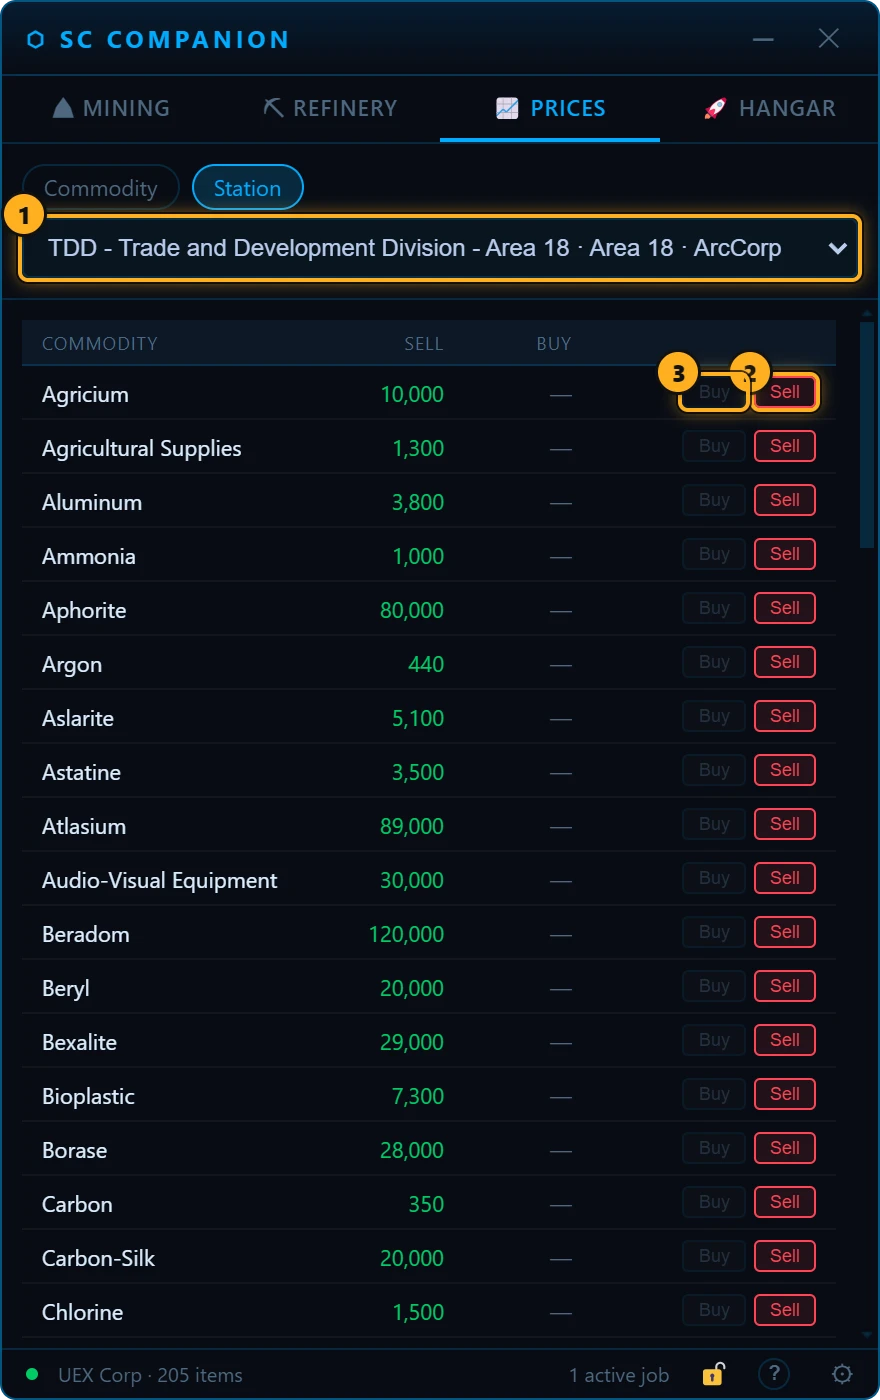
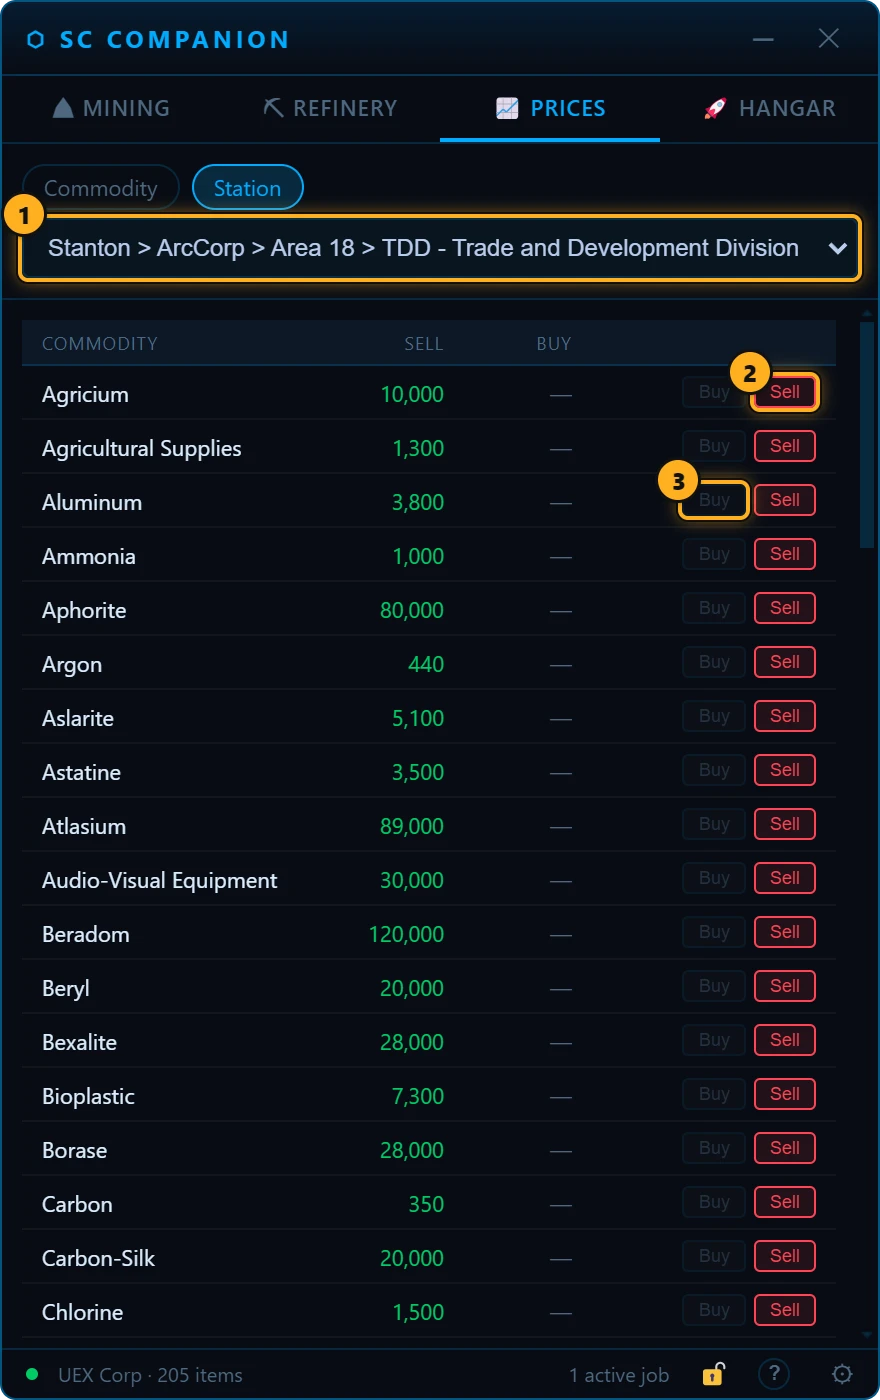
v1.4.9 — System-first station names, remembered locations, bug-report ping
Prices
- Station names are shown system-first ("Stanton > MicroTech > Calliope > ...")
  in the station list, best buy/sell lines and terminal popup, using one shared
  helper. Pyro and Nyx stations are now in the station list (116 total).

Add dialogs
- Add Inventory, Add Asset, Add Ship and Add Job remember the last location
  used and open on it; kept across restarts. Editing, the Buy flow, game-log
  jobs and refinery capture still use their own location.

Bug reports
- Reports now @mention a role so they are noticed; mentions are restricted so
  report text cannot ping anyone.

Changed region(s): [[0.0614, 0.1536, 0.9205, 0.1843], [0.7364, 0.2457, 0.8591, 0.3993]]

diff --git a/renderer/index.html b/renderer/index.html
@@ -2316,6 +2316,7 @@ function openAddJob() {
   debugEl.style.display = 'none';
   debugEl.textContent = '';
   resetOreRows();
+  document.getElementById('job-location').value = lastLocations.job || '';
   document.getElementById('modal-overlay').classList.add('show');
   setTimeout(() => document.querySelector('#ore-rows .ore-input')?.focus(), 50);
 }
@@ -2376,6 +2377,7 @@ function addJob() {
         durationSeconds: dur };
     }
   } else {
+    rememberLocation('job', location);
     jobs.push({ id: Date.now().toString(), ores, qualities, yields, method: method || 'Custom', location, startTime: Date.now(), durationSeconds: dur, notes });
   }
 
@@ -2562,9 +2564,32 @@ async function prefetchInventoryPrices() {
   }
 }
 
+// Where a terminal is, system first — the same path style SC Trade Tools uses, so
+// stations with the same name in different systems (the gateways) are easy to tell
+// apart: ["Stanton", "MicroTech", "Calliope", "Shubin Mining Facility SMCa-8"].
+// Works on both terminal records and commodity-price rows (they share these fields).
+function placeParts(t) {
+  const place = t.city_name || t.outpost_name || t.space_station_name || t.poi_name || '';
+  const parts = [t.star_system_name, t.planet_name, t.moon_name, place].filter(Boolean);
+  return parts.filter((p, i) => i === 0 || p.toLowerCase() !== parts[i - 1].toLowerCase());
+}
+
+// The path plus the terminal itself, without repeating the place when the terminal's
+// name already ends in it ("Rust - Dunboro" at Dunboro → "… > Dunboro > Rust").
+function terminalPath(t) {
+  const parts = placeParts(t);
+  const place = parts.length > 1 ? parts[parts.length - 1] : '';
+  let name = t.terminal_name || t.name || '';
+  if (place) {
+    const lower = name.toLowerCase(), pl = place.toLowerCase();
+    if (lower === pl) name = '';
+    else if (lower.endsWith(' - ' + pl)) name = name.slice(0, name.length - pl.length - 3);
+  }
+  return [...parts, name].filter(Boolean).join(' > ');
+}
+
 function rowLocation(p) {
-  const place = [p.city_name || p.outpost_name || p.poi_name, p.moon_name, p.planet_name].filter(Boolean).join(' · ');
-  return p.terminal_name + (place ? ` · ${place}` : '');
+  return terminalPath(p);
 }
 
 const terminalIndex = {};
@@ -2668,9 +2693,8 @@ async function renderStations() {
       const res = await api.getTerminals();
       if (res.status === 'ok') {
         (res.data || []).filter(t => t.is_available && t.type === 'commodity').forEach(t => {
-          const loc = [t.city_name || t.outpost_name, t.moon_name, t.planet_name]
-            .filter(Boolean).join(' · ') || t.space_station_name || t.star_system_name || '';
-          terminalIndex[t.id] = { id_terminal: t.id, terminal_name: t.name, loc };
+          const row = { ...t, terminal_name: t.name };
+          terminalIndex[t.id] = { id_terminal: t.id, terminal_name: t.name, loc: placeParts(row).join(' > '), path: terminalPath(row) };
         });
         terminalsLoaded = true;
       }
@@ -2678,7 +2702,7 @@ async function renderStations() {
   }
 
   const terminals = Object.values(terminalIndex)
-    .sort((a, b) => a.terminal_name.localeCompare(b.terminal_name));
+    .sort((a, b) => a.path.localeCompare(b.path));
 
   if (!terminals.length) {
     sel.innerHTML = '<option value="">Select a station…</option>';
@@ -2692,7 +2716,7 @@ async function renderStations() {
   const prev = sel.value;
   sel.innerHTML = '<option value="">Select a station…</option>' +
     terminals.map(t =>
-      `<option value="${esc(String(t.id_terminal))}"${String(t.id_terminal) === prev ? ' selected' : ''}>${esc(t.terminal_name)}${t.loc ? ` · ${esc(t.loc)}` : ''}</option>`
+      `<option value="${esc(String(t.id_terminal))}"${String(t.id_terminal) === prev ? ' selected' : ''}>${esc(t.path)}</option>`
     ).join('');
 
   if (prev && sel.value === prev) {
@@ -2985,9 +3009,7 @@ async function selectCom(com, el) {
       if (topBuy) {
         _topBuyPrice = topBuy.price_buy;
         _topBuyAt = rowLocation(topBuy);
-        const loc = [topBuy.city_name || topBuy.outpost_name || topBuy.poi_name, topBuy.planet_name]
-          .filter(Boolean).join(' · ');
-        bestBuyLoc.textContent   = topBuy.terminal_name + (loc ? ` · ${loc}` : '');
+        bestBuyLoc.textContent   = terminalPath(topBuy);
         bestBuyPrice.textContent = topBuy.price_buy.toLocaleString() + ' aUEC';
         bestBuyEl.style.display  = 'flex';
       }
@@ -3018,18 +3040,18 @@ async function selectCom(com, el) {
 
     plist.innerHTML = prices.map((p, i) => {
       const medal = i === 0 ? '🥇' : i === 1 ? '🥈' : i === 2 ? '🥉' : `${i+1}.`;
-      const loc = [p.city_name || p.outpost_name || p.poi_name, p.moon_name, p.planet_name].filter(Boolean).join(' · ');
+      const loc = placeParts(p).join(' > ');
       const rowData = encodeURIComponent(JSON.stringify({
         terminal_name: p.terminal_name,
         id_terminal: p.id_terminal,
-        loc: loc || p.star_system_name || '',
+        loc,
       }));
       return `
         <div class="price-row" style="cursor:pointer" onclick="showTerminalPrices('${rowData}')">
           <span class="price-rank">${medal}</span>
           <div class="price-location">
             <div class="price-terminal">${esc(p.terminal_name)}</div>
-            <div class="price-place">${esc(loc || p.star_system_name || '')}</div>
+            <div class="price-place">${esc(loc)}</div>
           </div>
           <div style="text-align:right">
             <div class="price-value">${p.price_sell.toLocaleString()}</div>
@@ -3333,7 +3355,7 @@ async function captureRefineryJob() {
     document.getElementById('job-s').value = res.duration.s || '';
   }
   const matchedLoc = matchJobLocation(res.location);
-  if (matchedLoc) document.getElementById('job-location').value = matchedLoc;
+  document.getElementById('job-location').value = matchedLoc || '';
 
   const foundAnything = materials.length || res.method || res.duration || matchedLoc;
   document.getElementById('modal-title').textContent = foundAnything
@@ -4018,6 +4040,7 @@ initShortcut();
 initLogWatcher();
 initCloseBehavior();
 initPriceSource();
+loadLastLocations();
 initTransitIcon();
 initRefineryCaptureMode();
 initHoverHints();
@@ -4638,7 +4661,7 @@ async function setShipSlot(slotIdx, assetUid) {
 async function openAddShip() {
   pickedVehicle = null;
   ['ship-pick-search', 'ship-nick-input', 'ship-notes-input'].forEach(id => { document.getElementById(id).value = ''; });
-  fillLocationSelect('ship-location-select', 'ship-location-custom');
+  fillLocationSelect('ship-location-select', 'ship-location-custom', lastLocations.ship || '');
   document.getElementById('ship-pick-selected').textContent = '';
   document.getElementById('add-ship-modal').style.display = 'flex';
   const listEl = document.getElementById('ship-pick-list');
@@ -4685,6 +4708,7 @@ async function saveShip() {
   }
   const v = pickedVehicle;
   const shipLocation = await readLocationPick('ship-location-select', 'ship-location-custom');
+  rememberLocation('ship', shipLocation);
   const newShip = {
     uid: newUid(),
     vid: v.id,
@@ -4829,6 +4853,21 @@ function onAssetTypeChange() {
   if (!isPart) document.getElementById('asset-size-input').value = '';
 }
 
+// The last place used in each "add" dialog, so adding a run of items to the same
+// spot is one pick instead of many. Remembered per dialog (inventory / asset / ship /
+// job) and kept across restarts. Only *adding* remembers or pre-fills — editing shows
+// the item's own location — and "In Transit" is never remembered.
+let lastLocations = {};
+async function loadLastLocations() {
+  try { lastLocations = (await api.getStore('lastLocations')) || {}; } catch { lastLocations = {}; }
+}
+function rememberLocation(kind, value) {
+  const v = String(value || '').trim();
+  if (v === 'In Transit' || (lastLocations[kind] || '') === v) return;
+  lastLocations[kind] = v;
+  api.setStore('lastLocations', lastLocations);
+}
+
 // One location picker for every "where is it" field (assets, ships): the same
 // station list as Inventory, any custom places already used anywhere, and a
 // Custom… option that's remembered for next time.
@@ -4887,7 +4926,7 @@ async function openAssetDialog(asset) {
   onAssetTypeChange();
   if (asset && asset.size != null) document.getElementById('asset-size-input').value = String(asset.size);
 
-  await fillLocationSelect('asset-location-select', 'asset-location-custom', asset ? (asset.location || '') : '');
+  await fillLocationSelect('asset-location-select', 'asset-location-custom', asset ? (asset.location || '') : (lastLocations.asset || ''));
 }
 
 function openAddAsset() { return openAssetDialog(); }
@@ -4909,6 +4948,7 @@ async function saveAsset() {
   };
   const assetSize = document.getElementById('asset-size-input').value;
   const existing = editingAssetUid ? assetByUid(editingAssetUid) : null;
+  if (!existing) rememberLocation('asset', location);
   if (existing) {
     // Editing keeps everything the dialog doesn't show (crafted parts, stock info, uid).
     Object.assign(existing, fields);
@@ -6734,10 +6774,9 @@ const ALL_SC_LOCATIONS = Object.values(SC_LOCATIONS).flat();
 function populateLocSelect(currentVal) {
   const sel    = document.getElementById('inv-loc-select');
   const custom = document.getElementById('inv-loc-custom');
-  const isCustom = currentVal && !ALL_SC_LOCATIONS.includes(currentVal);
-
   // Any custom locations saved in inventory go in a "Saved" group at the top
   const saved = [...new Set(craftInventory.map(i => i.location).filter(l => l && !ALL_SC_LOCATIONS.includes(l)))];
+  const isCustom = currentVal && !ALL_SC_LOCATIONS.includes(currentVal) && !saved.includes(currentVal);
   let html = '';
   if (saved.length) {
     html += `<optgroup label="Saved">` +
@@ -7012,7 +7051,7 @@ function openAddInventory() {
   invRows = [{ qty: '', unit: '1' }];
   renderInvRows();
   document.getElementById('inv-add-row-btn').hidden = false;
-  populateLocSelect('');
+  populateLocSelect(lastLocations.inventory || '');
   document.getElementById('inv-modal-overlay').style.display = 'flex';
 }
 
@@ -7056,6 +7095,7 @@ async function saveInventoryItem() {
     const row = rows[0] || { qty: '1', unit: '1' };
     craftInventory[editingInvId] = { name, quality, qty: row.qty, unit: row.unit, location };
   } else {
+    if (!markTransit) rememberLocation('inventory', location);
     for (const row of rows) {
       const qty = parseFloat(row.qty) || 1;
       const whole = Math.floor(qty);

diff --git a/main.js b/main.js
@@ -460,7 +460,7 @@ ipcMain.handle('api:getCommodityPrices', async (_, { id, type }) => {
 
 ipcMain.handle('api:getTerminals', async () => {
   try {
-    const res = await fetchJson('https://api.uexcorp.space/2.0/terminals?id_star_system=68');
+    const res = await fetchJson('https://api.uexcorp.space/2.0/terminals?type=commodity');   // every system (Stanton, Pyro, Nyx)
     return { status: 'ok', data: res.data || [] };
   } catch (e) {
     return { status: 'error', error: e.message };
@@ -763,6 +763,13 @@ ipcMain.handle('updater:install', () => {
 ipcMain.handle('shell:openExternal', (_, url) => { shell.openExternal(url); });
 
 // ─── IPC: Bug report ──────────────────────────────────────────────────────────
+// Who to @mention on every report — set either or both (empty = no ping).
+// Discord: User Settings → Advanced → Developer Mode on, then right-click yourself (or the
+// role in Server Settings → Roles) → Copy ID. They are numeric IDs, not secrets, but note
+// this file is in a public repo. A role only pings if it is mentionable (or the webhook is
+// allowed to mention it).
+const BUG_PING_USER_ID = '';
+const BUG_PING_ROLE_ID = '637593821659529227';
 const BUG_WEBHOOK = 'https://discord.com/api/webhooks/1549166537305362532/ygN4GsizQ21ibHHCnCn1wahjgQvgFJ9aZ5ctZj8N9IhChRZSNMLNIEshbDPPyWZEDaVK';
 // ── Attachments ──────────────────────────────────────────────────────────────
 // Three things can ride along with a report, and only when the user ticks/adds them in
@@ -888,7 +895,16 @@ ipcMain.handle('bug:report', async (_, { description, includeView, includeCaptur
     { name: 'Platform', value: `${process.platform} ${process.getSystemVersion?.() || ''}`.trim(), inline: true },
   ];
   if (files.length) fields.push({ name: 'Attachments', value: files.map(f => f.name).join(', ').slice(0, 1000) });
+  // A webhook only pings through `content` (embeds never do). allowed_mentions is always
+  // sent so that nothing in a user's report text can mention anyone — only the IDs
+  // above, and only when they are set.
+  const idOk = (v) => /^\d{15,25}$/.test(v);
+  const pingUser = idOk(BUG_PING_USER_ID) ? BUG_PING_USER_ID : null;
+  const pingRole = idOk(BUG_PING_ROLE_ID) ? BUG_PING_ROLE_ID : null;
+  const mentions = [pingRole && `<@&${pingRole}>`, pingUser && `<@${pingUser}>`].filter(Boolean).join(' ');
   const payload = JSON.stringify({
+    ...(mentions ? { content: `${mentions} 🐛 New bug report — v${CURRENT_VERSION}` } : {}),
+    allowed_mentions: { parse: [], users: pingUser ? [pingUser] : [], roles: pingRole ? [pingRole] : [] },
     embeds: [{
       title: '🐛 Bug Report',
       description: String(description || '').slice(0, 1500),

diff --git a/renderer/help-content.js b/renderer/help-content.js
@@ -103,7 +103,7 @@ const HELP_SECTIONS = [
     intro: ['Track ore and materials box by box, grouped by ore or by location.'],
     shots: ['hangar-inventory'],
     howto: [
-      '**Add stock:** + Add → pick the material, quality, one or more box sizes, and where it is.',
+      '**Add stock:** + Add → pick the material, quality, one or more box sizes, and where it is. The last location you used is remembered, so adding several boxes to the same place is quick.',
       '**Move or sell several boxes:** tick their checkboxes, then use the bar that appears to move them, mark them in transit, or sell them.',
       '**Edit one box in a stack:** Split pulls a number of identical boxes out of the ×N row so they can be edited individually; ↩ Merge folds them back.',
     ],
@@ -296,13 +296,13 @@ const HELP_SHOTS = {
 
   'prices-station': {
     file: 'prices-station.webp', title: 'Station prices — Buy and Sell', viewport: { w: 440, h: 700 },
-    setup: "switchTab('prices'); switchPricesView('station', [...document.querySelectorAll('#prices-view-chips .chip')][1]); const s = document.getElementById('prices-station-select'); for (let i = 0; i < 60 && s.options.length < 5; i++) await new Promise(r => setTimeout(r, 500)); const o = [...s.options].findIndex(x => /TDD.*(Lorville|Area 18|New Babbage)/i.test(x.text)); s.selectedIndex = o > 0 ? o : Math.min(4, s.options.length - 1); s.dispatchEvent(new Event('change'));",
+    setup: "switchTab('prices'); switchPricesView('station', [...document.querySelectorAll('#prices-view-chips .chip')][1]); const s = document.getElementById('prices-station-select'); for (let i = 0; i < 60 && s.options.length < 5; i++) await new Promise(r => setTimeout(r, 500)); const o = [...s.options].findIndex(x => /(Lorville|Area 18|New Babbage).*TDD/i.test(x.text)); s.selectedIndex = o > 0 ? o : Math.min(4, s.options.length - 1); s.dispatchEvent(new Event('change'));",
     after: "switchPricesView('commodity', document.querySelector('#prices-view-chips .chip'));",
     wait: 3500,
     points: [
       { sel: '#prices-station-select', text: '**Pick a station** (or terminal) to list everything it trades.' },
       { sel: '.station-row-actions button:not([disabled])', nth: 0, text: '**Buy** opens Add Inventory pre-filled and marks it in transit. **Sell** (shown) sells your in-transit stock of that commodity here.' },
-      { sel: '.station-row-actions button[disabled]', text: 'A **greyed-out** button means the station does not trade it in that direction.' },
+      { sel: '.station-row-actions button[disabled]', nth: 2, text: 'A **greyed-out** button means the station does not trade it in that direction.' },
     ],
   },
 

diff --git a/README.md b/README.md
@@ -131,7 +131,7 @@ Four views: **My Blueprints**, **Inventory**, **Assets**, and **Ships**.
 - Ship components show a size badge (**S0**–**S6**). Filter by Owned/Missing/All, by category, or by size, search by name, and sort alphabetically, by craft time, or by size (blueprints with no size, like armor, sort last)
 
 **Inventory** — the core stock tracker
-- **+ Add** opens a form: pick the ore/material, its quality %, one or more box sizes (SCU), and a location (pick from known Star Citizen stations or type a custom one)
+- **+ Add** opens a form: pick the ore/material, its quality %, one or more box sizes (SCU), and a location (pick from known Star Citizen stations or type a custom one). The location you used last is **remembered** — so adding a run of boxes to the same place is one pick, not many (the Add Asset, Add Ship and Add Job dialogs remember theirs too)
 - Toggle **By Location** / **By Ore** to change how the list is grouped
 - Each box shows a **locked box size** (fixed once created — it can't be changed afterward, only the amount inside it can), a read-only **fill %**, and an editable **Remainder** — the actual SCU currently in that box. Editing the Remainder is the only way to adjust how full a box is
 - **Identical boxes condense** into a single `×N` row automatically. Use **Split** on a condensed row to pull a chosen number of boxes back out into their own line for individual editing or moving, and **↩ Merge** to fold them back together
